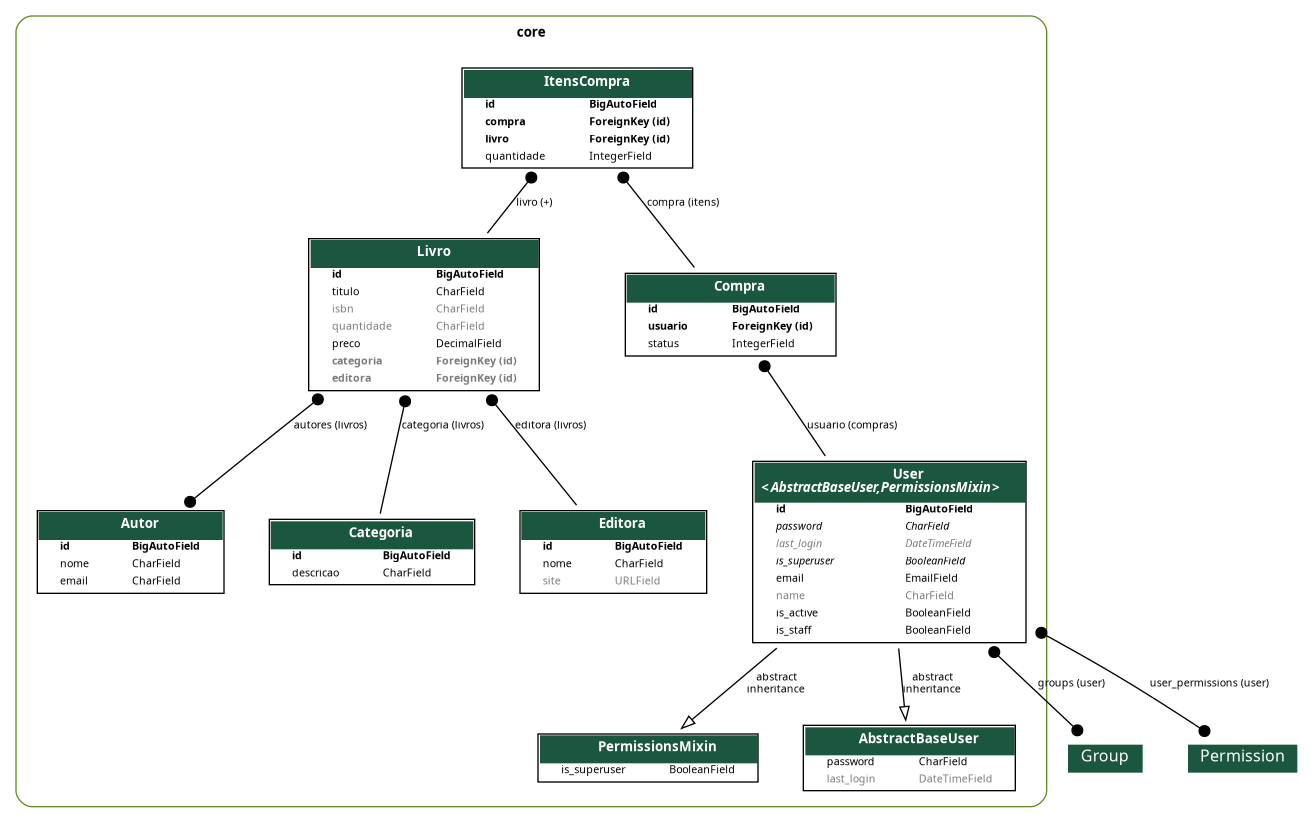
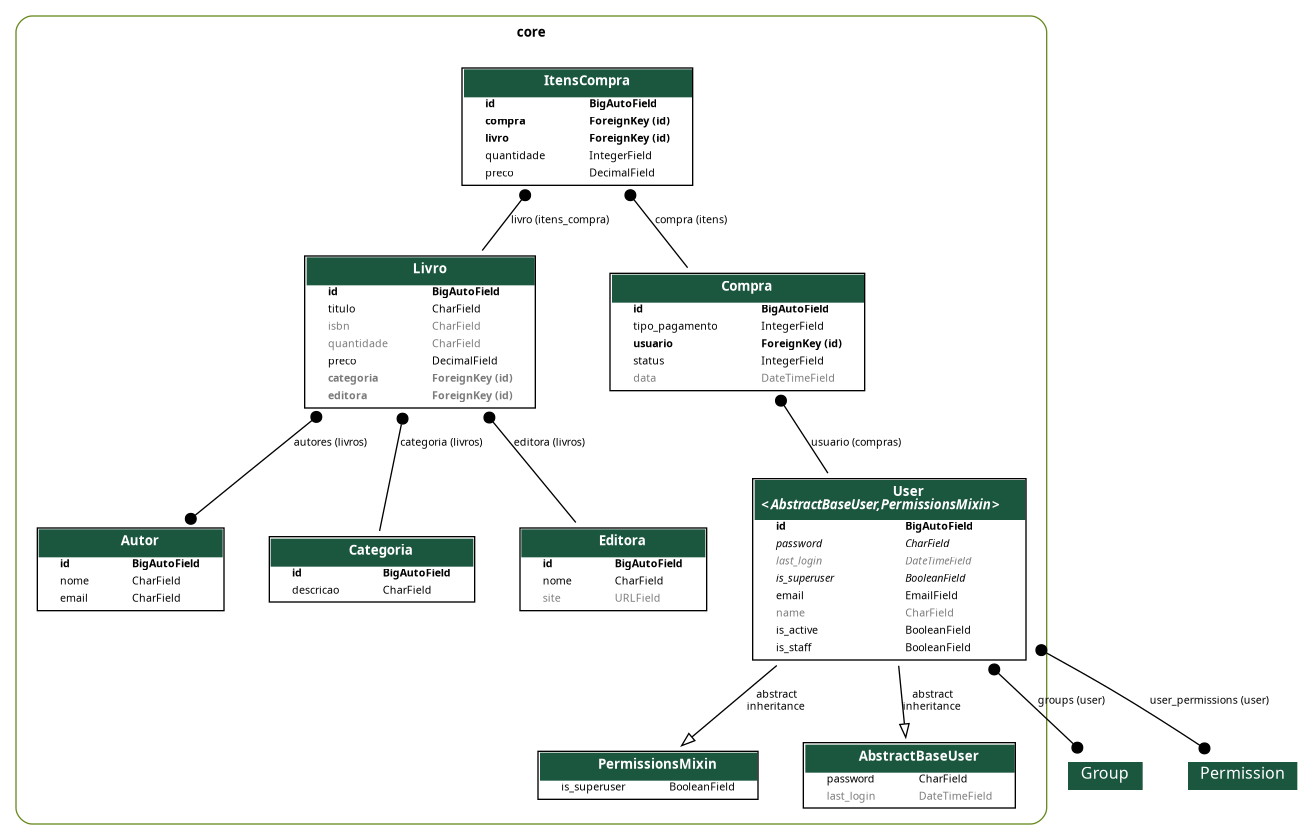
FEAT: listando livros com mais de 10 cópias vendidas

diff --git a/core/views/livro.py b/core/views/livro.py
@@ -2,46 +2,43 @@ from rest_framework import status
 from rest_framework.decorators import action
 from rest_framework.response import Response
 from rest_framework.viewsets import ModelViewSet
-from core.models import Livro
+from core.models import Livro, Compra 
 from core.serializers import (
     LivroAlterarPrecoSerializer,
     LivroListSerializer,
-    LivroRetrieveSerializer,
     LivroSerializer,
     LivroListRetrieveSerializer,
+    LivroMaisVendidoSerializer,
 )
 from drf_spectacular.utils import extend_schema
+from django.db.models import Q, Sum
 
 class LivroViewSet(ModelViewSet):
     queryset = Livro.objects.all()
-    serializer_class = LivroSerializer
-
-    
-
-    def get_serializer_class(self):
-        if self.action == 'list':
-            return LivroListSerializer
-        elif self.action == 'retrieve':
-            return LivroListRetrieveSerializer
-        return LivroSerializer
+    serializer_class = LivroSerializer  # Seu serializer padrão
 
     @extend_schema(
-        request=LivroAlterarPrecoSerializer,
-        responses={200: None},
-        description="Altera o preço de um livro específico.",
-        summary="Alterar preço do livro",
+        summary="Lista os livros mais vendidos",
+        description="Retorna os livros que venderam mais de 10 unidades.",
+        responses={
+            200: LivroMaisVendidoSerializer(many=True)
+        },
     )
-    @action(detail=True, methods=['patch'])
-    def alterar_preco(self, request, pk=None):
-        livro = self.get_object()
+    @action(detail=False, methods=['get'])
+    def mais_vendidos(self, request):
+        livros = Livro.objects.annotate(
+            total_vendidos=Sum(
+                'itens_compra__quantidade',
+                filter=Q(itens_compra__compra__status=Compra.StatusCompra.FINALIZADO)
+            )
+        ).filter(total_vendidos__gt=10).order_by('-total_vendidos')
 
-        serializer = LivroAlterarPrecoSerializer(data=request.data)
-        serializer.is_valid(raise_exception=True)
+        serializer = LivroMaisVendidoSerializer(livros, many=True)
 
-        livro.preco = serializer.validated_data['preco']
-        livro.save()
+        if not serializer.data:
+            return Response(
+                {"detail": "Nenhum livro excedeu 10 vendas."},
+                status=status.HTTP_200_OK
+            )
 
-        return Response(
-            {'detail': f'Preço do livro "{livro.titulo}" atualizado para {livro.preco}.'}, status=status.HTTP_200_OK
-        )
-
+        return Response(serializer.data, status=status.HTTP_200_OK)

diff --git a/core/migrations/0013_compra_tipo_pagamento_alter_itenscompra_livro.py b/core/migrations/0013_compra_tipo_pagamento_alter_itenscompra_livro.py
@@ -1,0 +1,24 @@
+# Generated by Django 5.2.12 on 2026-10-13 12:20
+
+import django.db.models.deletion
+from django.db import migrations, models
+
+
+class Migration(migrations.Migration):
+
+    dependencies = [
+        ('core', '0012_compra_data_itenscompra_preco'),
+    ]
+
+    operations = [
+        migrations.AddField(
+            model_name='compra',
+            name='tipo_pagamento',
+            field=models.IntegerField(choices=[(1, 'Cartão de Crédito'), (2, 'Cartão de Débito'), (3, 'PIX'), (4, 'Boleto'), (5, 'Transferência Bancária'), (6, 'Dinheiro'), (7, 'Outro')], default=1),
+        ),
+        migrations.AlterField(
+            model_name='itenscompra',
+            name='livro',
+            field=models.ForeignKey(on_delete=django.db.models.deletion.PROTECT, related_name='itens_compra', to='core.livro'),
+        ),
+    ]

diff --git a/core/models/compra.py b/core/models/compra.py
@@ -34,7 +34,7 @@ class Compra(models.Model):
     
 class ItensCompra(models.Model):
     compra = models.ForeignKey(Compra, on_delete=models.CASCADE, related_name='itens')
-    livro = models.ForeignKey(Livro, on_delete=models.PROTECT, related_name='+')
+    livro = models.ForeignKey(Livro, on_delete=models.PROTECT, related_name='itens_compra')
     quantidade = models.IntegerField(default=1)
     preco = models.DecimalField(max_digits=7, decimal_places=2, default=0)
 
@@ -42,3 +42,4 @@ class ItensCompra(models.Model):
     @property
     def total(self):
         return self.livro.preco * self.quantidade
+

diff --git a/core/serializers/livro.py b/core/serializers/livro.py
@@ -1,5 +1,6 @@
 from rest_framework.serializers import (
     DecimalField,
+    IntegerField,
     ModelSerializer,
     Serializer,
     SlugRelatedField,
@@ -31,3 +32,10 @@ class LivroAlterarPrecoSerializer(Serializer):
         if preco <= 0:
             raise ValidationError('O preço deve ser um valor positivo.')
         return preco
+
+class LivroMaisVendidoSerializer(ModelSerializer):
+    total_vendidos = IntegerField()
+
+    class Meta:
+        model = Livro
+        fields = ('id', 'titulo', 'total_vendidos')

diff --git a/core/serializers/__init__.py b/core/serializers/__init__.py
@@ -5,7 +5,8 @@ from .user import UserRegistrationSerializer, UserSerializer
 from .livro import (
     LivroAlterarPrecoSerializer,
     LivroListSerializer,
-    LivroRetrieveSerializer,
+    LivroListRetrieveSerializer,
+    LivroMaisVendidoSerializer,
     LivroSerializer,
 )
 from .compra import (
